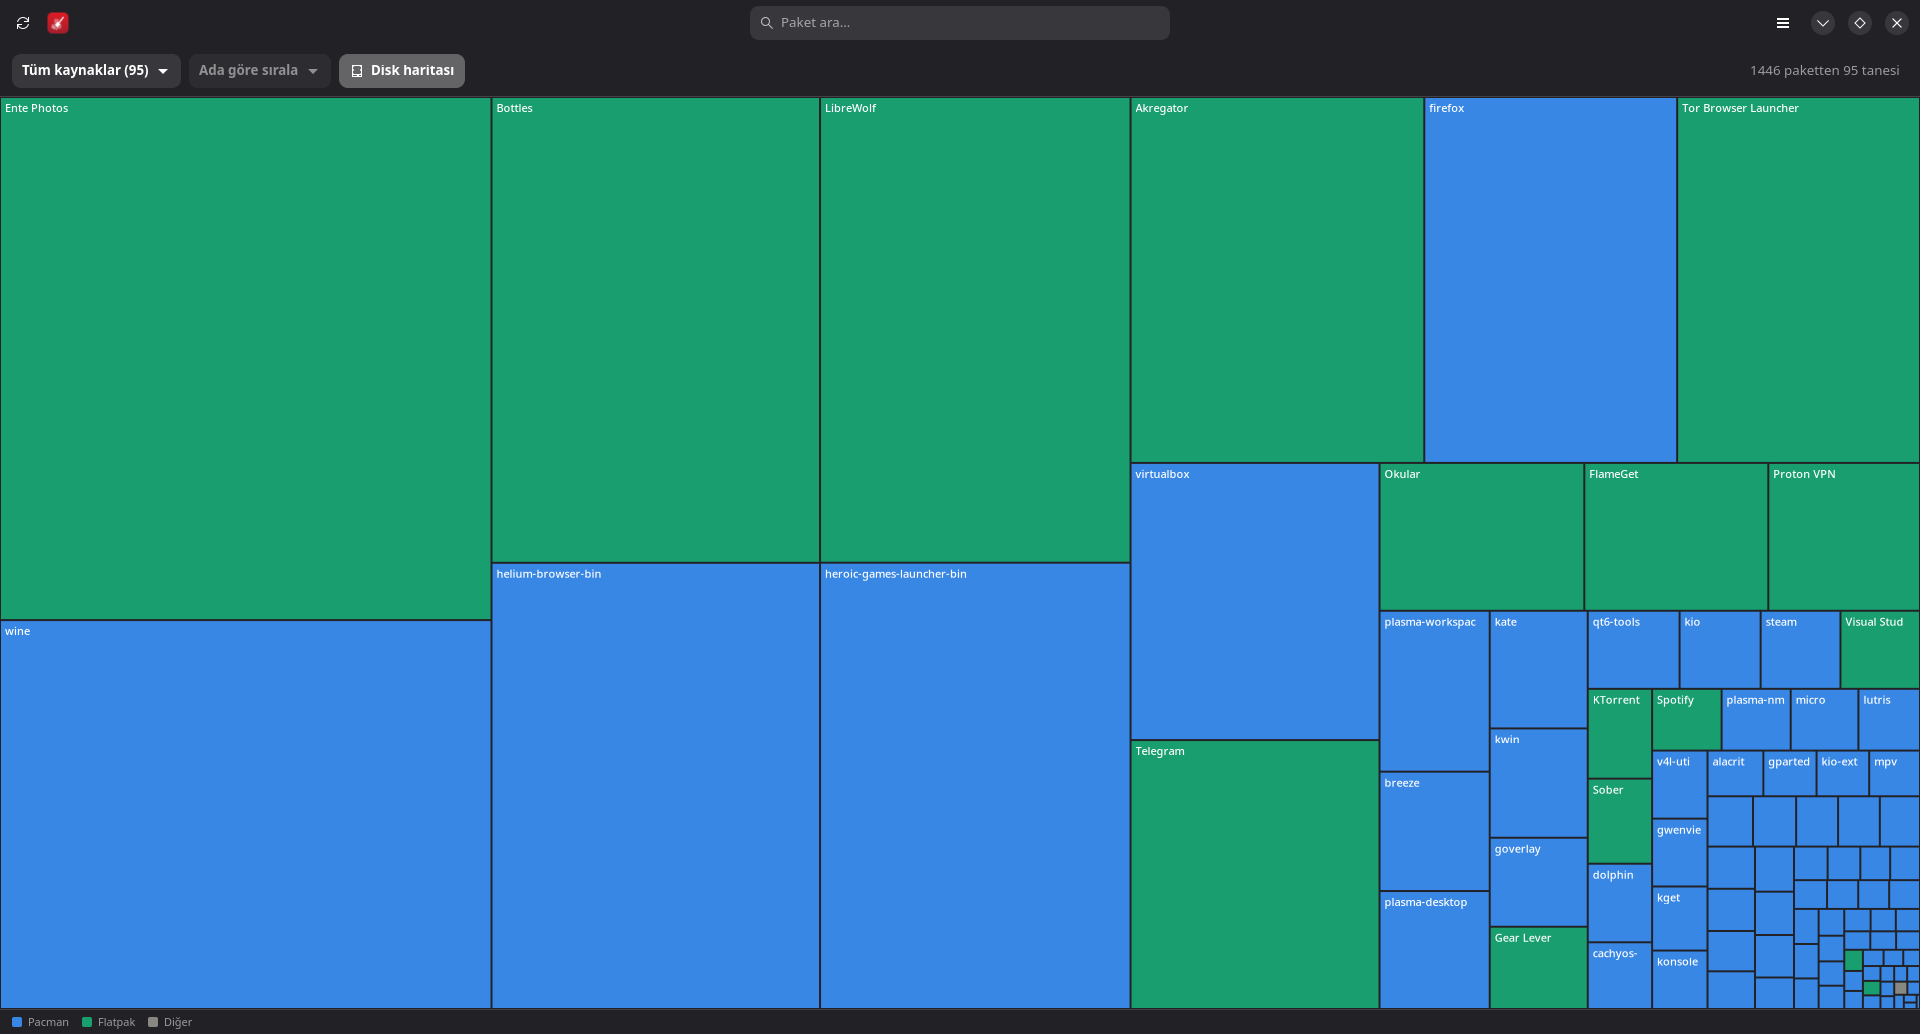
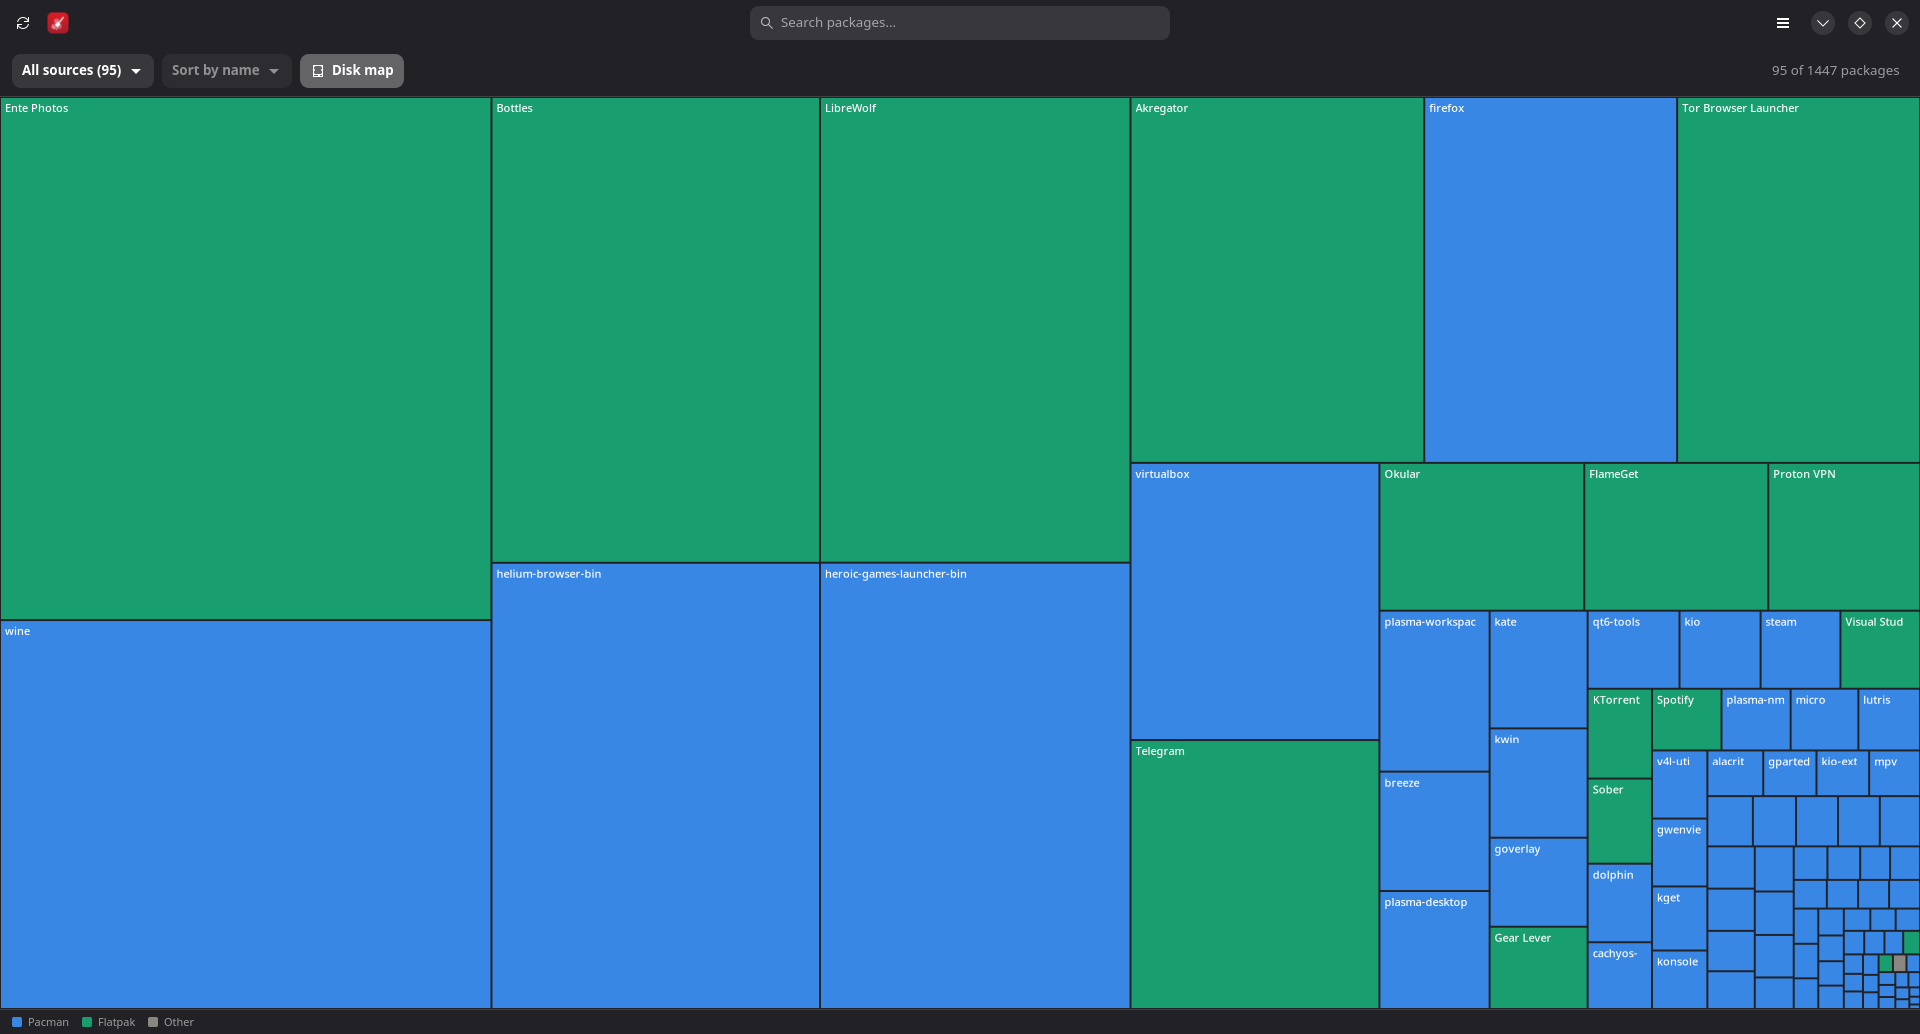
Restack README screenshots, retake all in English
Main window and disk map each get their own full-width row instead of
being squeezed side by side. Removal and Settings stay paired. All
four screenshots recaptured with the English UI.

diff --git a/README.md b/README.md
@@ -6,9 +6,13 @@ the ones you no longer need, cleanly and safely, on any distribution.
 
 ## Screenshots
 
-| Main window | Disk map |
-|---|---|
-| ![Main window](data/screenshots/main.png) | ![Disk map](data/screenshots/diskmap.png) |
+| Main window |
+|---|
+| ![Main window](data/screenshots/main.png) |
+
+| Disk map |
+|---|
+| ![Disk map](data/screenshots/diskmap.png) |
 
 | Removal with leftover cleanup | Settings |
 |---|---|
